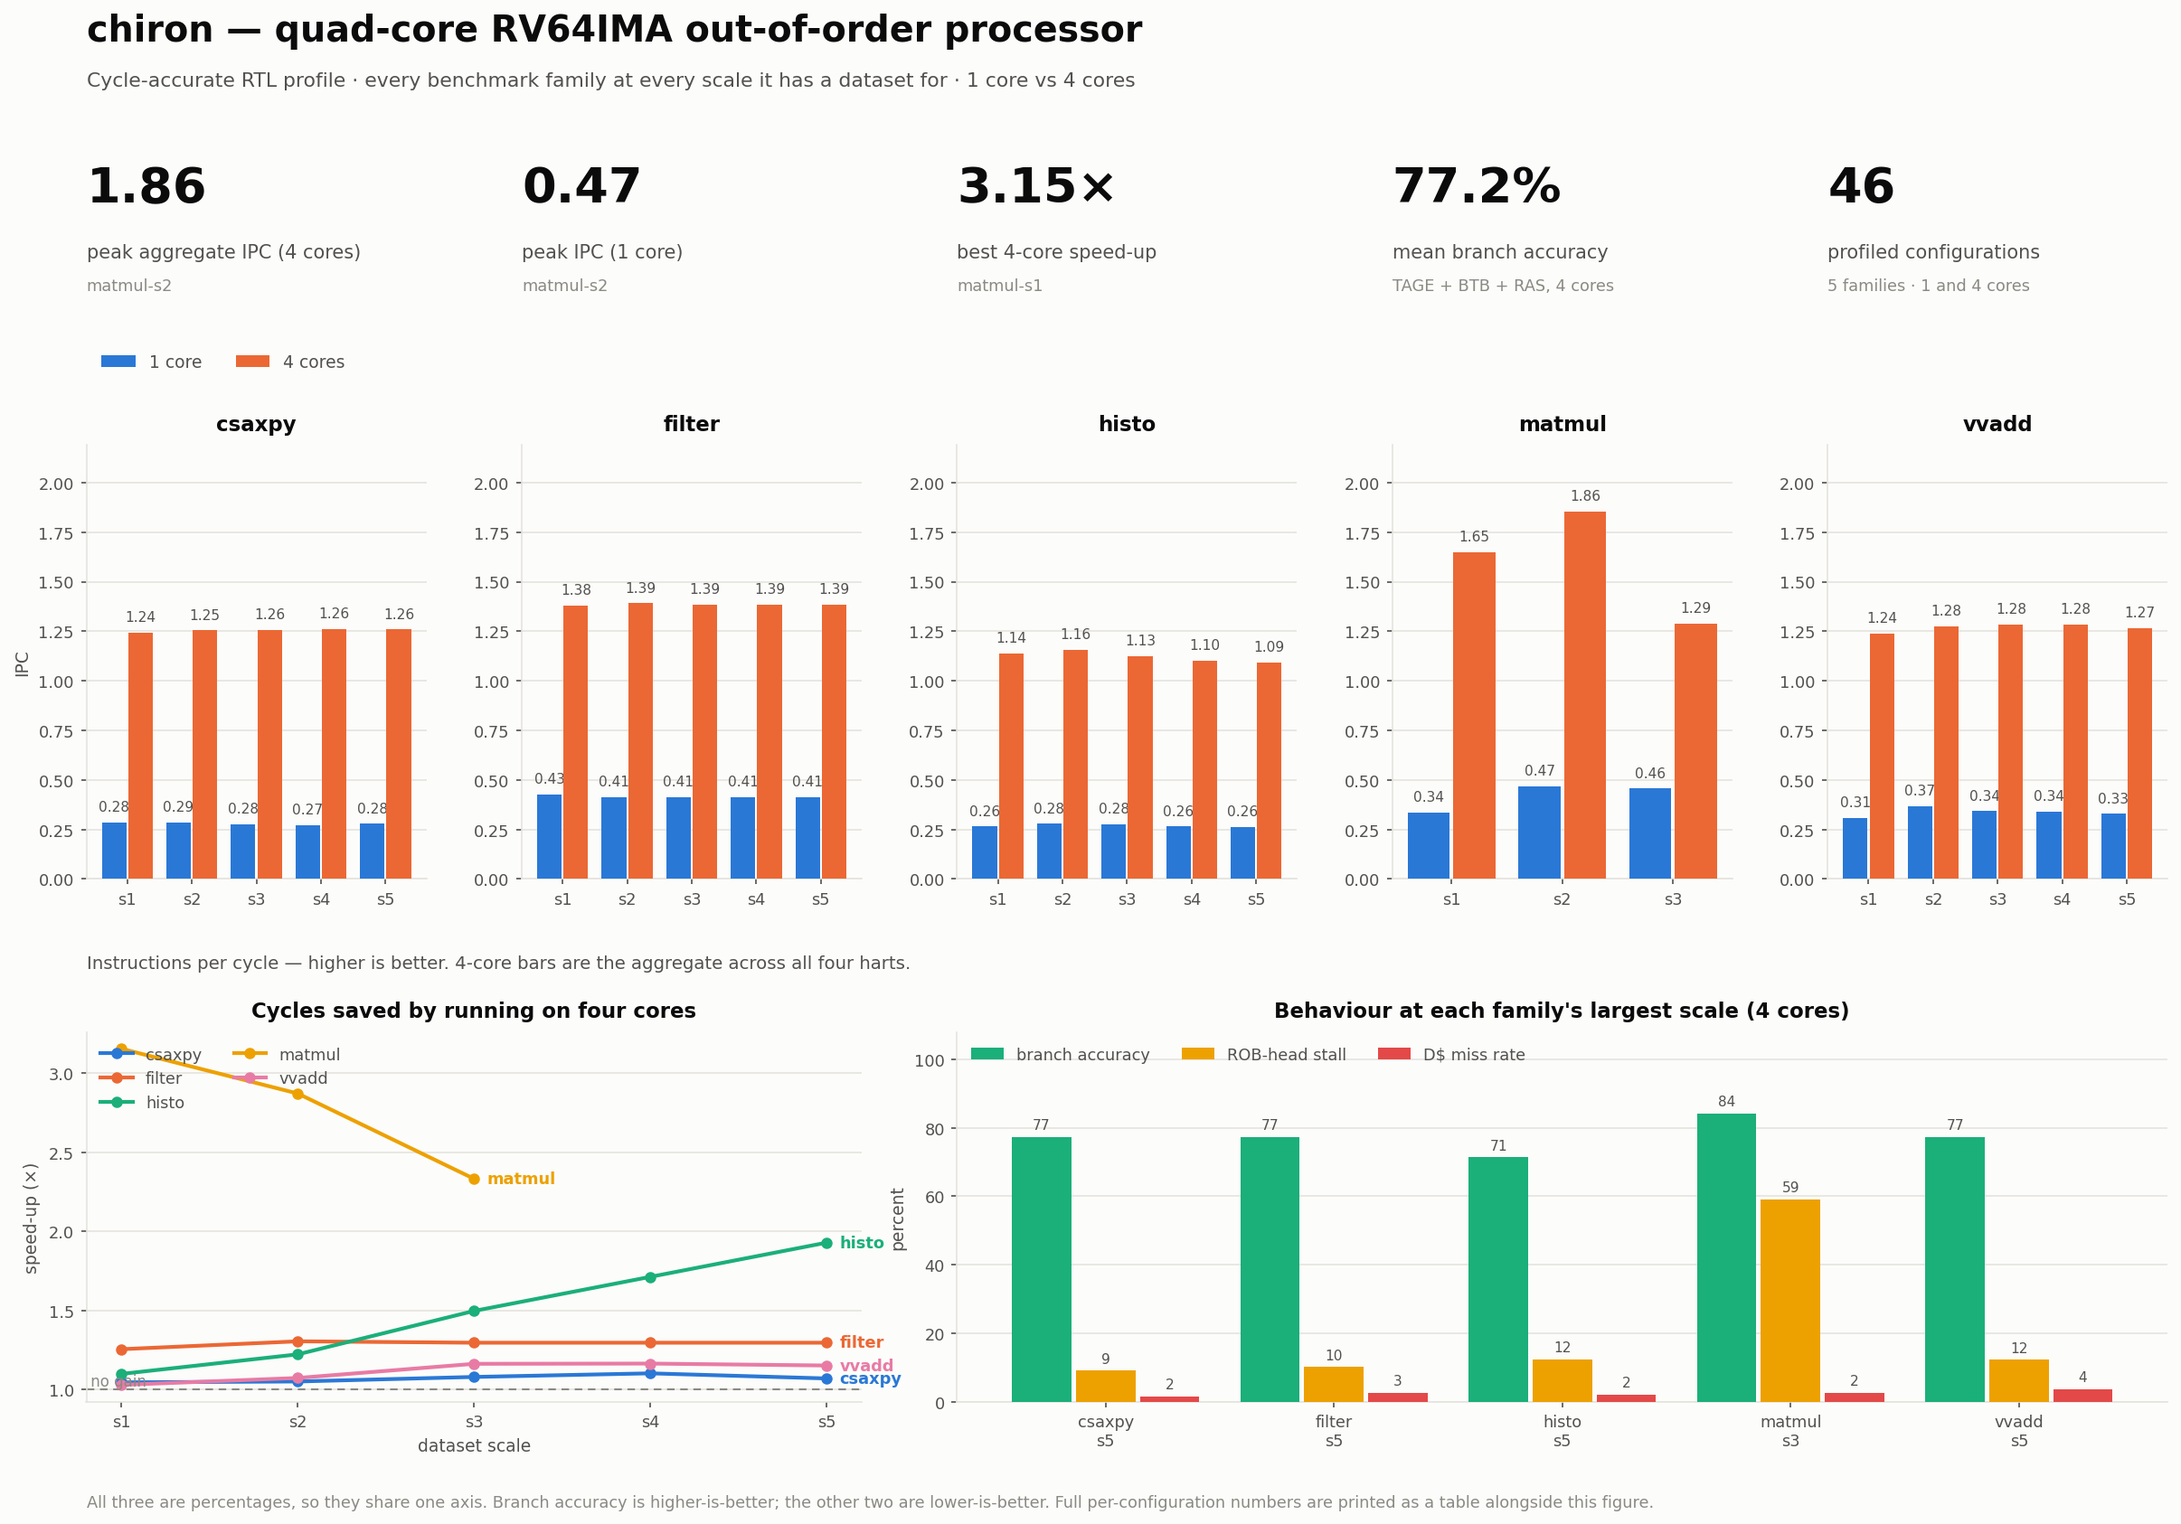
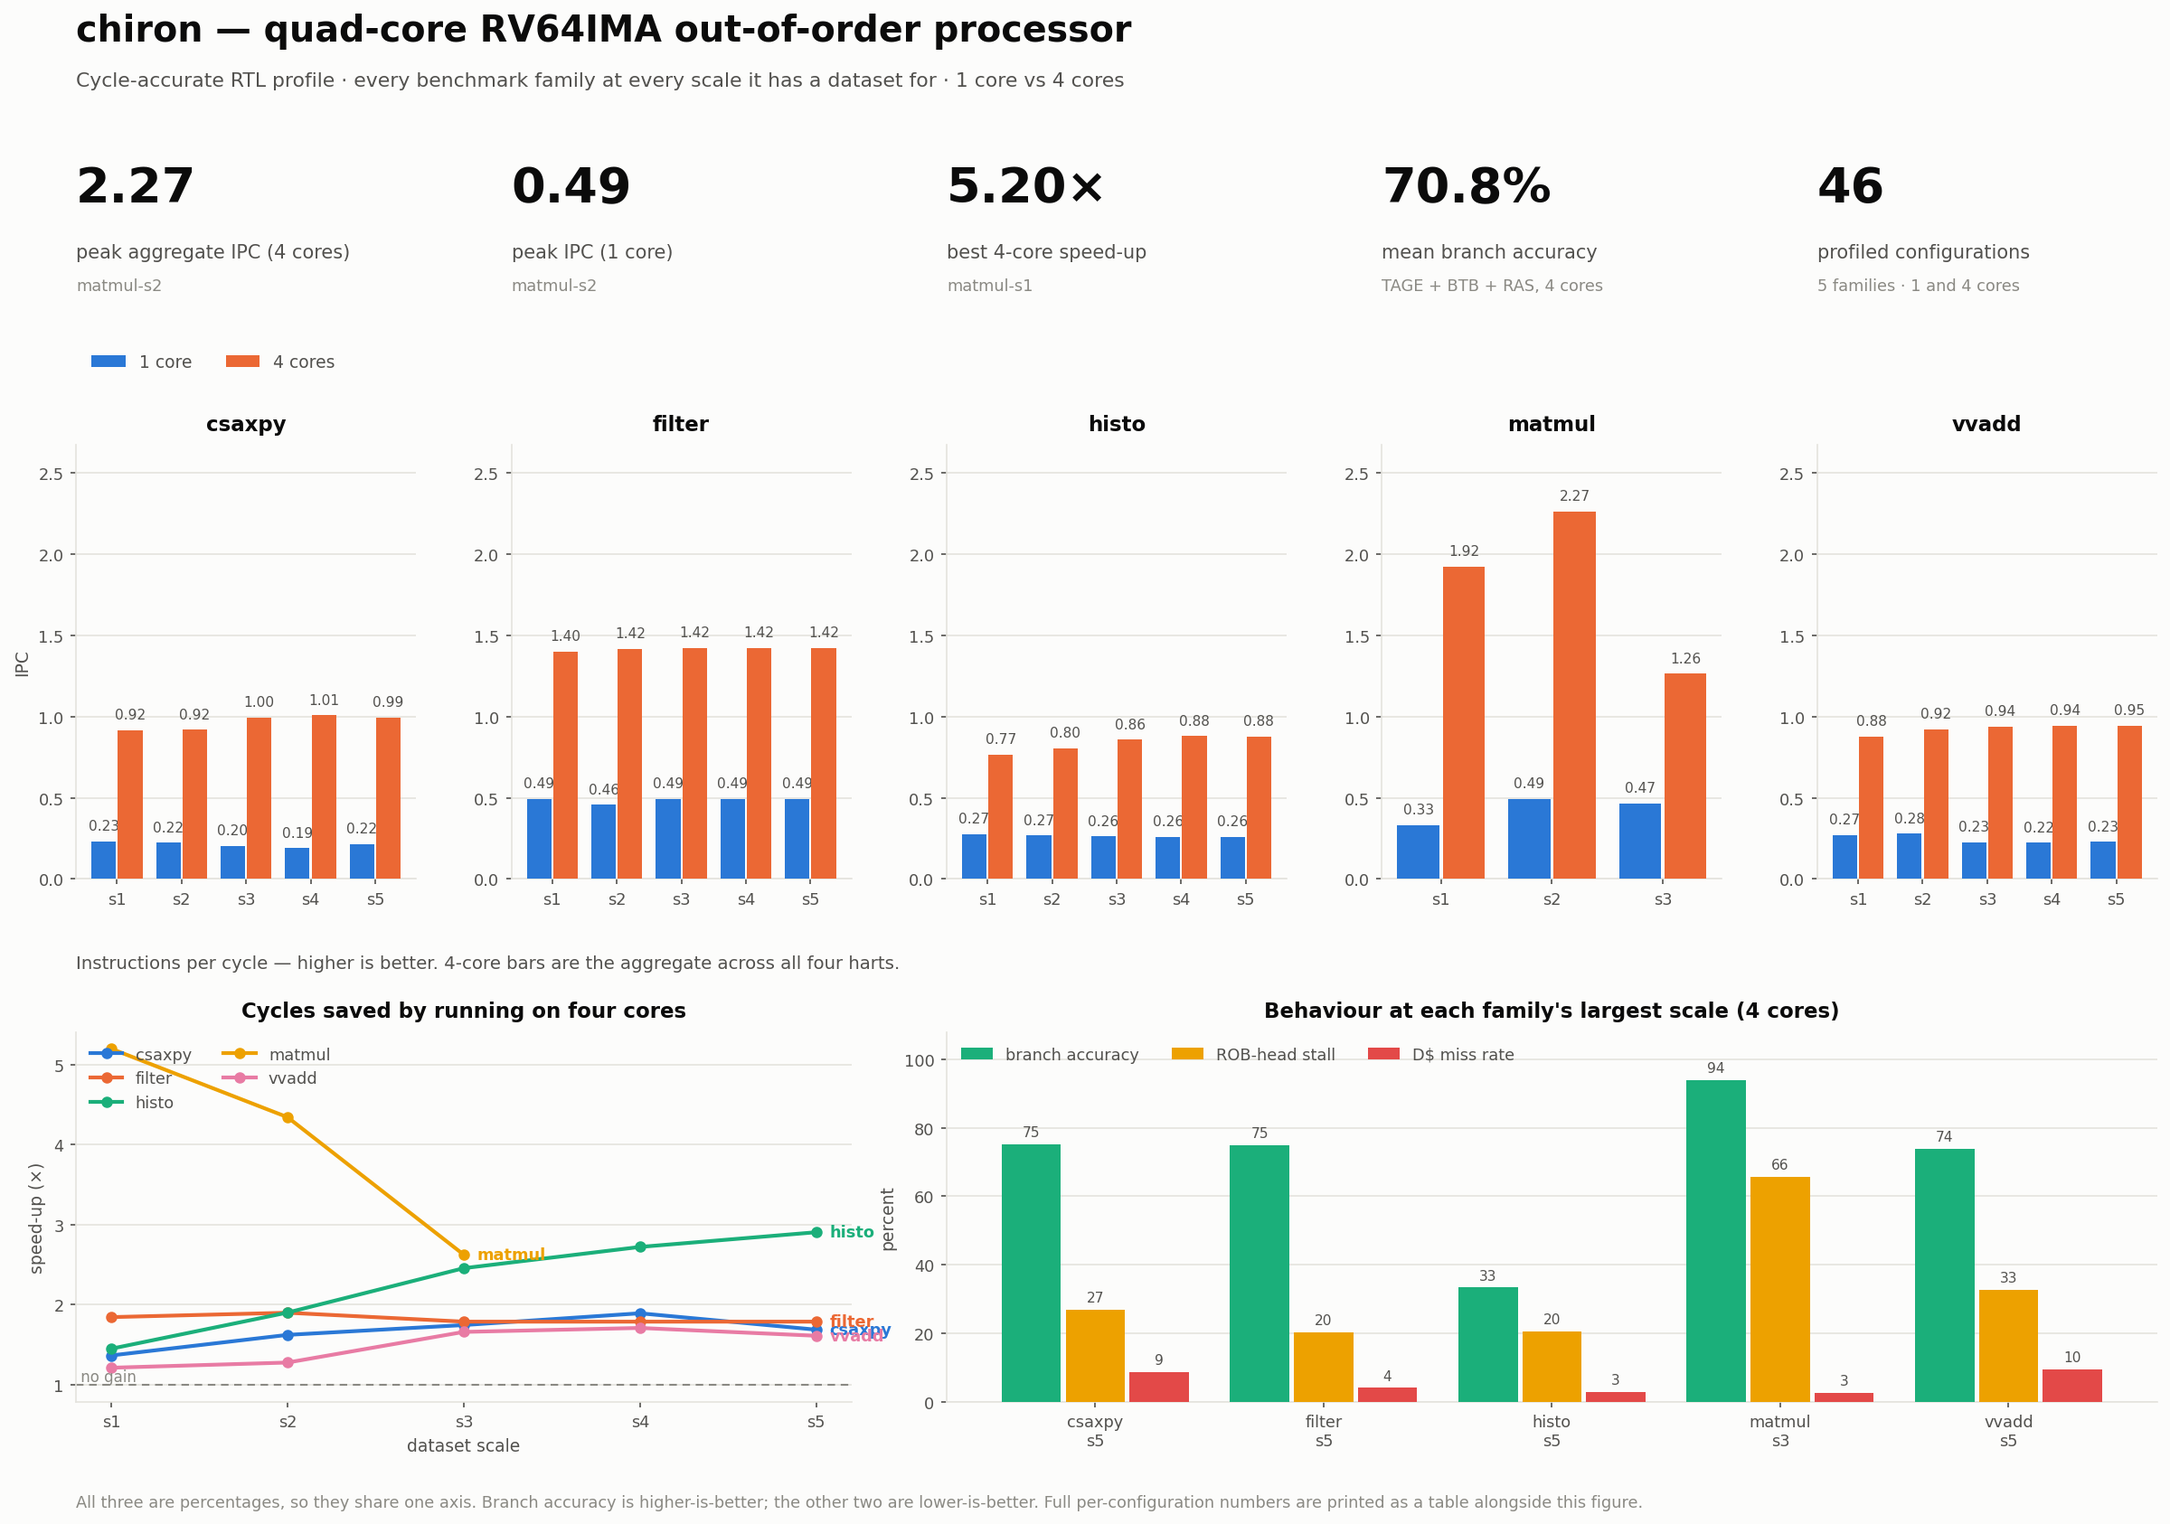
docs: refresh the profile sweep, and fix PSWEEP_JOBS for threaded models
Re-ran the full sweep (46 configurations, 100,268,018 cycles) on the current
netlist and regenerated docs/profile_report.png from it.

The numbers moved a long way, and not because the design changed: the
benchmarks used to dump their result arrays over the UART, and that serial
tail dominated the shorter runs. With the dump removed vvadd-s1 is 69,657
cycles instead of 328,451. Cycle counts fell in proportion to how much each
family printed -- vvadd 4.7x, filter 2.1x, matmul 1.2x -- so both absolute
cycles and IPC shifted. Every reference table in the README is regenerated
rather than nudged, and the section now says outright that these figures are
not comparable to anything published before today.

Current profile: single-core IPC 0.23-0.49, quad-core aggregate 0.77-2.27,
peak 2.27 (matmul-s2), best 4-core speed-up 5.20x, mean branch accuracy
70.8%. All 46 runs completed with "error code: 0"; none hit the timeout.

PSWEEP_JOBS defaulted to nproc, which dated from when each simulation was
single-threaded. The fast model is now Verilated with --threads $(VTHREADS),
so one run already occupies VTHREADS cores, and Verilator's thread pool
busy-waits rather than blocking. Oversubscribing therefore collapses
throughput instead of flattening it. Measured on an 8-core host against
38.5K cyc/s serial:

    2 jobs (8 threads)   ~1.79x
    4 jobs (16 threads)  ~0.22x  -- 4.5x SLOWER than running them one at a time
[…]

diff --git a/sim/harness/linux_sim.cpp b/sim/harness/linux_sim.cpp
@@ -3,8 +3,8 @@
 // Unlike lockstep_linux.cpp this runs *only* the RTL: no golden model, no
 // per-instruction run.log, no register comparison. That debug machinery is what
 // makes lock-step crawl; dropping it lets the core run as fast as Verilator
-// allows (~thousands of cycles/sec) so you can watch Linux boot on the actual
-// RTL and type at its console.
+// allows (~40K cycles/sec on a 4-threaded model) so you can watch Linux boot on
+// the actual RTL and type at its console.
 //
 //   usage: linux_sim.out <image.bin> <dtb> <bootrom> [options]
 //
@@ -27,10 +27,11 @@
 // boot log that is purely the boot. Harness chatter — image loading, progress,
 // checkpoint bookkeeping — goes to the --debug log file or nowhere at all.
 //
-// This is SLOW: the core runs at ~thousands of cycles/sec and bbl must memcpy a
-// multi-MB kernel before the first UART byte appears, so several minutes of
-// silence at the start is normal, not a hang. If you want to watch progress,
-// run with --debug and tail the log.
+// This is SLOW in absolute terms: ~40K cycles/sec, and a full boot to the login
+// prompt is ~3 billion cycles, so budget the better part of a day. bbl must also
+// memcpy a multi-MB kernel before the first UART byte appears, so several
+// minutes of silence at the start is normal, not a hang. If you want to watch
+// progress, run with --debug and tail the log.
 //
 // Input: the host's stdin is forwarded to uart0's RX, so this is a real
 // interactive console — at "buildroot login: " type root, then nproc.

diff --git a/README.md b/README.md
@@ -43,6 +43,9 @@
 - **Boots quad-core Linux SMP to an interactive shell** — a nommu RISC-V kernel
   brings up all four harts, runs userspace, and answers `nproc` with `4`, typed
   live at the console (`docs/linux-quad-boot.log`).
+- **Fast enough to actually boot it** — the Verilated model runs at **~40 K RTL
+  cycles/s** (4-threaded, `-O3`), so a 3-billion-cycle Linux boot finishes in a
+  day rather than a week, and it checkpoints so you never repeat one.
 - **One command per task.** No copying files around: every harness loads images
   by path, driven from a single benchmark manifest.
 - **164 hardware performance counters** exposed from the RTL (41 per core × 4)
@@ -261,19 +264,27 @@ make profile-all-sc              # → build/profile_results/<fam>-s<N>.json + c
 
 | Benchmark | Cycles | IPC | Branch Acc | D$ Miss | DRAM RD BW |
 |---|---|---|---|---|---|
-| filter-s1 | 1 023 495 | **0.428** | 78.8 % | 2.11 % | 1.39 MB/s |
-| vvadd-s1 | 328 451 | **0.310** | 73.1 % | 1.42 % | 1.33 MB/s |
-| csaxpy-s1 | 379 275 | **0.284** | 69.4 % | 1.17 % | 1.04 MB/s |
-| histo-s1 | 1 855 397 | **0.264** | 67.7 % | 1.11 % | 1.21 MB/s |
-| matmul-s1 | 1 114 553 | **0.335** | 27.5 % | 0.55 % | 0.40 MB/s |
+| filter-s1 | 482 231 | **0.492** | 77.5 % | 3.82 % | 3.01 MB/s |
+| matmul-s1 | 938 727 | **0.331** | 11.1 % | 0.34 % | 0.46 MB/s |
+| histo-s1 | 581 807 | **0.275** | 78.0 % | 3.92 % | 3.83 MB/s |
+| vvadd-s1 | 69 657 | **0.272** | 71.7 % | 7.11 % | 6.13 MB/s |
+| csaxpy-s1 | 62 211 | **0.233** | 62.9 % | 6.47 % | 6.17 MB/s |
 
-> Single-core IPC now sits at 0.26–0.43, roughly 2.3× the pre-TAGE numbers, with
-> branch accuracy up from ~50–60 % to 68–79 % on the streaming kernels — the
-> predictor change is most of the gain. filter leads because its stencil inner
-> loop is long and well-predicted; histo trails because its scatter pattern
-> serialises on the store path. matmul's branch accuracy is low because the
-> trip-count-3 inner loop is a hard pattern for TAGE; the IPC is still
-> competitive because the inner body is mul-heavy and cache-resident.
+> Single-core IPC sits at 0.23–0.49, with branch accuracy 63–78 % on the
+> streaming kernels — the TAGE frontend is most of that. filter leads because
+> its stencil inner loop is long and well-predicted; csaxpy trails because at
+> `s1` the kernel is only ~62 K cycles, so loop prologue and the barrier
+> dominate what little work there is.
+>
+> **`s1` is the smallest scale and flatters nothing** — the D$ miss rates above
+> are cold-start artefacts (vvadd's 7.1 % falls out of a 70 K-cycle run whose
+> working set is touched exactly once). Read the scaling curves in
+> `docs/profile_report.png` for steady-state behaviour.
+>
+> matmul-s1's 11.1 % branch accuracy is the trip-count-3 inner loop: at this
+> size almost every branch is a fresh one TAGE never sees twice. It is a
+> small-input artefact, not a predictor limit — the same kernel reaches
+> **67.6 % at s2 and 98.9 % at s3** as the loops get long enough to learn.
 
 ---
 
@@ -334,35 +345,51 @@ make test-q4                     # profile-based pass/fail on vvadd-q4
 
 ## Profiling values — reference numbers
 
-Measured on the current RTL over the full sweep (`make profile-sweep`); the
+Measured on the current RTL over the full sweep (`make profile-sweep`,
+**2026-08-17**, 46 configurations, all completing with `error code: 0`); the
 figures below are the `s1` scale, and `docs/profile_report.png` covers every
 family at every scale, single-core and quad-core.
+
+> **These numbers are not comparable to any published before 2026-08-17.** The
+> benchmarks used to dump their result arrays over the UART, and that serial
+> tail dominated the shorter runs — vvadd-s1 was 328 451 cycles, of which most
+> was printing. With the dump removed it is 69 657. Cycle counts fell across
+> the board (vvadd 4.7×, filter 2.1×, matmul 1.2× — in proportion to how much
+> each family printed), so absolute cycles and IPC both moved. Compare against
+> this sweep, not the old one.
 
 ### vvadd-s1-q4 (vector-vector add, all 4 cores)
 
 | Metric | Aggregate | Core 0 | Cores 1–3 |
 |---|---|---|---|
-| **IPC** | **1.238** | 0.298 | ~0.314 |
-| Instructions retired | 394 836 | 94 970 | ~99 955 each |
-| Max cycles | 318 813 | — | — |
-| Branch accuracy | — | 75.0 % | 77.3 % |
-| D-cache miss rate | — | 1.7 % | ~7.9 % |
-| ROB stall % | — | 28.4 % | ~5.3 % |
-| Decode efficiency | — | 67.6 % | ~94.7 % |
+| **IPC** | **0.876** | 0.212 | ~0.221 |
+| Instructions retired | 50 267 | 12 195 | ~12 691 each |
+| Max cycles | 57 375 | — | — |
+| Branch accuracy | — | 85.0 % | 72.5 % |
+| D-cache miss rate | — | 11.8 % | ~7.9 % |
+| ROB stall % | — | 58.3 % | ~26.0 % |
+| Decode efficiency | — | 41.7 % | ~74.0 % |
 
 > Core 0 acts as the coordinator (barrier + result check), hence its lower IPC
 > and high ROB stall fraction. Cores 1–3 execute the compute kernel.
+> vvadd-s1-q4 is only 57 K cycles end to end, so fixed startup cost is a large
+> share of it; `vvadd-s5-q4` reaches **0.946** aggregate IPC on the same code.
 
 ### histo-s1-q4 (histogram, all 4 cores)
 
 | Metric | Aggregate | Core 0 | Cores 1–3 |
 |---|---|---|---|
-| **IPC** | **1.138** | 0.255 | ~0.294 |
-| Instructions retired | 1 919 539 | 430 510 | ~496 340 each |
-| Max cycles | 1 687 203 | — | — |
-| Branch accuracy | — | 71.0 % | 76.1 % |
-| D-cache miss rate | — | 1.2 % | ~2.8 % |
-| ROB stall % | — | 37.1 % | ~5.1 % |
+| **IPC** | **0.768** | 0.249 | ~0.173 |
+| Instructions retired | 307 806 | 99 883 | ~69 308 each |
+| Max cycles | 400 787 | — | — |
+| Branch accuracy | — | 91.1 % | 43.6 % |
+| D-cache miss rate | — | 6.6 % | ~2.6 % |
+| ROB stall % | — | 60.7 % | ~15.1 % |
+
+> histo inverts the usual split: core 0 retires the *most* instructions and the
+> worker harts the fewest, because the scatter kernel's data-dependent branches
+> are close to unpredictable (43.6 % on cores 1–3). It is the weakest family on
+> this machine and the clearest remaining headroom.
 
 ---
 
@@ -487,15 +514,28 @@ JSON reports are written to `build/profile_results/`.
 
 ---
 
-## Timing reference (Verilator, ~6 500 RTL cycles/sec)
+## Timing reference (Verilator, ~38.5 K RTL cycles/sec)
 
-| Benchmark | Approx wall time |
-|---|---|
-| vvadd-s1 (lock-step) | ~30 s |
-| vvadd-q4 (profile) | ~2 min |
-| csaxpy-s2 (lock-step) | ~5 min |
-| csaxpy-s5 / csaxpy-q4 | ~25 min |
-| matmul / filter / histo (q4) | 5–15 min |
+Measured on an 8-core host with the 4-threaded fast model, one simulation at a
+time. Lock-step runs are far slower than this — they step a golden model in
+parallel and compare every retired instruction.
+
+| Run | Cycles | Approx wall time |
+|---|---|---|
+| `make profile-sweep` (all 46 configs) | 100 268 018 | ~45 min at `PSWEEP_JOBS=2` |
+| matmul-s3 (single-core, longest run) | 40 990 627 | ~18 min |
+| matmul-s3-q4 | 15 611 545 | ~7 min |
+| filter-s5 / filter-s5-q4 | 2.9 M / 1.6 M | ~75 s / ~45 s |
+| vvadd-s1-q4 (shortest) | 57 375 | ~2 s |
+| Full quad-core Linux boot to login | ~3.06 G | ~21 h |
+
+**`PSWEEP_JOBS` is not `nproc`.** The fast model is Verilated with
+`--threads $(VTHREADS)`, so one simulation already occupies `VTHREADS` cores and
+the sweep must run `nproc / VTHREADS` at a time. Verilator's thread pool
+busy-waits, so oversubscribing collapses throughput rather than merely flattening
+it — measured here, 2 jobs gives ~1.79× over serial, while 4 jobs gives **0.22×,
+i.e. 4.5× slower than running them one at a time**. The default now computes
+this; override only if your host is bigger than the arithmetic.
 
 ---
 
@@ -592,9 +632,11 @@ make linux-sim                             # same boot on the savable model
   heartbeat log; `RESTORE` / `RESUME` are refused — those need `linux-sim`.
 - **`linux-sim`** boots the image on the Verilated RTL with a live uartlite
   console, and **stdin is wired through** — you can log in and run commands.
-  Expect ~5–10K cycles/s on the savable model: the kernel banner appears after
-  ~20 minutes and the login prompt after ~3 billion cycles, so plan on leaving
-  it overnight. **Its stdout is the guest console and nothing else**, so
+  Expect **~40 K cycles/s** on the savable model (it is Verilated with
+  `--threads` too — `--savable` and `--threads` coexist, so checkpointing costs
+  no speed). A full boot to the login prompt is ~3 billion cycles, i.e. the
+  better part of a day; the kernel banner shows up in the first few minutes.
+  **Its stdout is the guest console and nothing else**, so
   `make linux-sim | tee boot.log` produces a log of the boot rather than a log
   of the harness. `make uartrx-test` is the fast regression for the
   console-input path.
@@ -624,9 +666,10 @@ make linux-sim                             # same boot on the savable model
   foreign or stale file rather than restoring garbage.
 - `LINUX_IMAGE` defaults to `bins/linux-q4.bin` (see `mk/run.mk`).
 
-**Status (2026-08-14): the quad-core image boots to an interactive shell on the
+**Status (2026-08-17): the quad-core image boots to an interactive shell on the
 RTL.** All four harts come online, `/init` runs, and `nproc` answers `4` typed
-live at the console — `docs/linux-quad-boot.log` is that boot.
+live at the console — `docs/linux-quad-boot.log` is that boot, captured from
+`make linux-sim DEBUG=1` on the current netlist.
 
 Booting a real SMP kernel turned out to be the sharpest verification tool in the
 project: it exercises coherence, speculation, and traps in combinations no
@@ -666,8 +709,9 @@ All of the above hold under the full suite: ISA 84/84, `ci-bench` 5/5,
 
 - **`mask-sfilter` only has three distinct scales.** `s3.h`, `s4.h` and `s5.h`
   are byte-identical (`DATA_SIZE 156`), so `filter-s3`, `-s4` and `-s5` build the
-  same image and unsurprisingly profile to the same number (1.385 aggregate IPC
-  at all three). The flat tail of filter's scaling curve is a dataset artifact,
+  same image and unsurprisingly profile to the same number (1.425 aggregate IPC
+  and 1 643 293 cycles at all three, bit-for-bit). The flat tail of filter's
+  scaling curve is a dataset artifact,
   not a saturation effect. Regenerating the larger datasets with
   `mask-sfilter_gendata.py` would fix it, at the cost of re-deriving that
   family's completion PCs and re-running the sweep.
@@ -677,10 +721,12 @@ All of the above hold under the full suite: ISA 84/84, `ci-bench` 5/5,
 ## Roadmap
 
 - Port the single-core IPC optimisations (radix-4 divider, store-data trim,
-  load-queue flow-through) to the quad-core back-end. Aggregate quad-core IPC is
-  currently **1.09–1.86** across the five families (see
-  `docs/profile_report.png`), i.e. roughly 0.27–0.47 per core — the headroom is
-  still large.
+  load-queue flow-through) to the quad-core back-end. Aggregate quad-core IPC
+  spans **0.77–2.27** across the five families (see `docs/profile_report.png`),
+  i.e. roughly 0.19–0.57 per core — the headroom is still large. matmul is
+  already at 2.27 aggregate; histo is the floor at 0.77 and is branch-bound
+  (43.6 % accuracy on the worker harts), so it wants a better predictor for
+  data-dependent branches rather than more back-end width.
 - Add an ownership check to the ROB execute write ports. Four separate bugs so
   far shared one shape: a completion landing on a slot that was rolled back and
   reallocated underneath it. A structural guard would close the class rather
